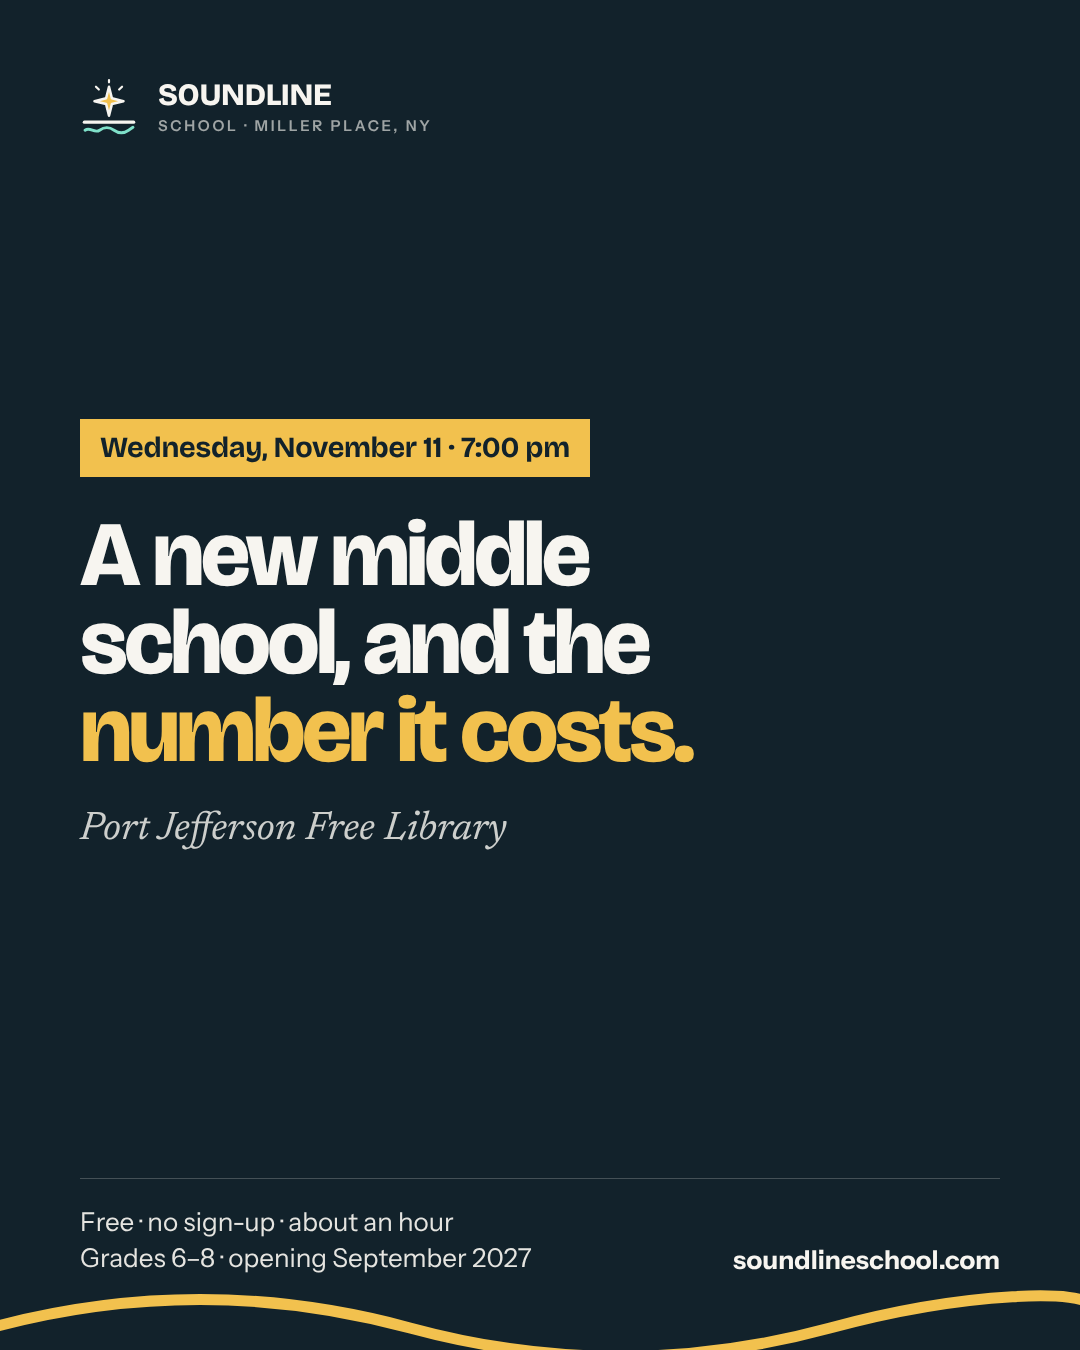
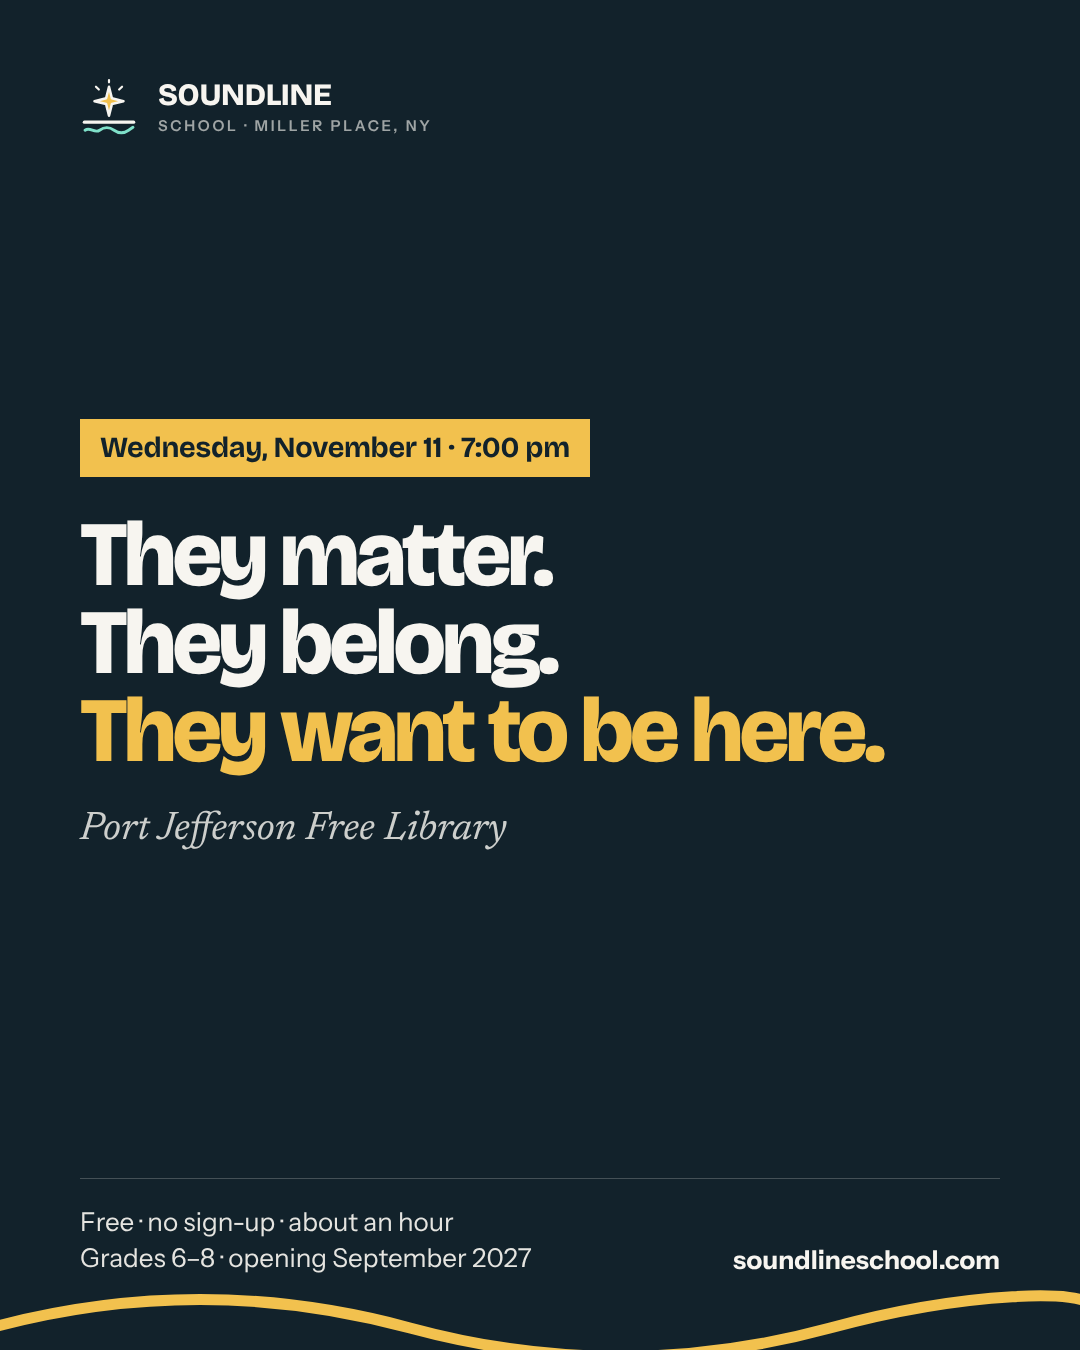
Sell significance, belonging and fun on the November 11 ad
"The number it costs" is what makes us different from other
schools, but as a headline to a parent who has never heard of
us it reads as a pitch rather than an invitation. The three
things a middle schooler actually needs are the offer; price
and logistics move down into the footing as reassurance.

Also fixes the fitter. It shrinks type until nothing overflows,
but an authored line that wrapped reported no overflow and
escaped the shrink, so the first headline line broke in two at
full size. Headline lines no longer wrap, which makes the
overflow real and measurable.

Claude-Session: https://claude.ai/code/session_018XwtJ3ar8u6f3XjiJA2UqT

Changed region(s): [[0.0611, 0.3733, 0.825, 0.5911]]

diff --git a/tools/ads-nov11.js b/tools/ads-nov11.js
@@ -31,9 +31,15 @@ const WAVE = `<svg class="wave" viewBox="0 0 1080 90" preserveAspectRatio="none"
 // The event is the offer, so the date carries the weight a headline usually
 // carries and the hook sits under it. Beacon throughout: this is a shared
 // card, it has to work for a homeschooling parent and a public-school one.
+//
+// The headline sells the three things a middle schooler needs and a parent
+// of one is actually shopping for: significance, belonging, fun. Publishing
+// tuition is what sets us apart from other schools, but to a cold parent it
+// reads as a pitch, so price and logistics sit in the footing as
+// reassurance rather than leading.
 const COPY = {
   kicker: 'Wednesday, November 11 · 7:00 pm',
-  head: ['A new middle', 'school, and the', 'number it costs.'],
+  head: ['They matter.', 'They belong.', 'They want to be here.'],
   sub: 'Port Jefferson Free Library',
   foot: ['Free · no sign-up · about an hour',
          'Grades 6–8 · opening September 2027'],
@@ -82,7 +88,7 @@ const page = (s) => `<!doctype html><html lang="en"><head><meta charset="utf-8">
           color:var(--deep);background:var(--beacon);padding:14px 20px 15px;margin-bottom:34px}
   h1{font-family:var(--shout);font-weight:800;letter-spacing:-.04em;line-height:.96;
      font-size:${s.head}px}
-  h1 span{display:block}
+  h1 span{display:block;white-space:nowrap}
   h1 span:last-child{color:var(--accent)}
   .sub{font-family:var(--reassure);font-style:italic;font-size:${s.sub}px;line-height:1.3;
        color:rgba(247,245,240,.82);margin-top:28px;max-width:22ch}
